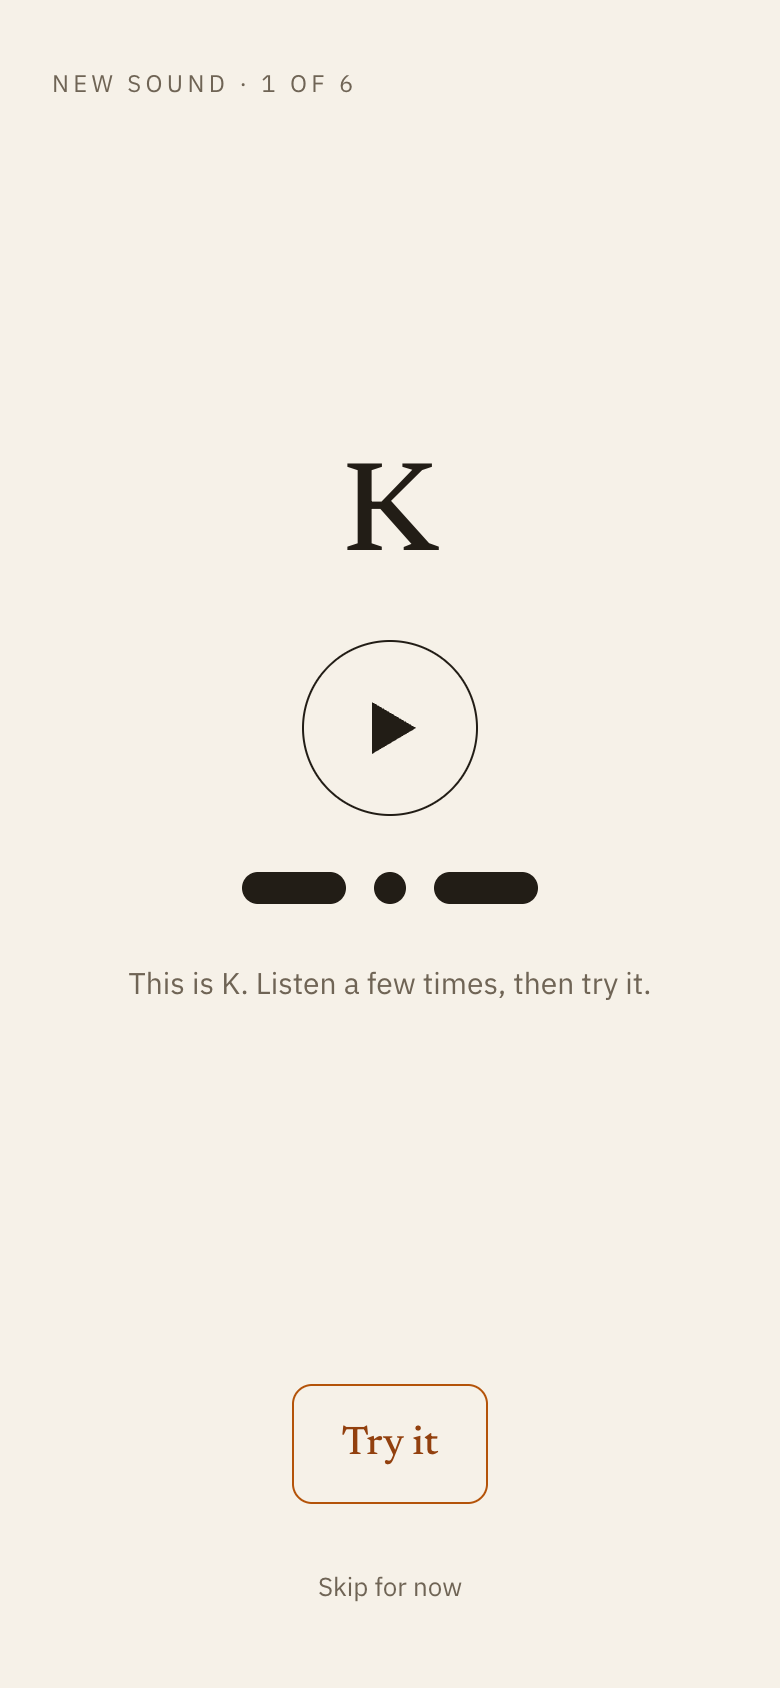
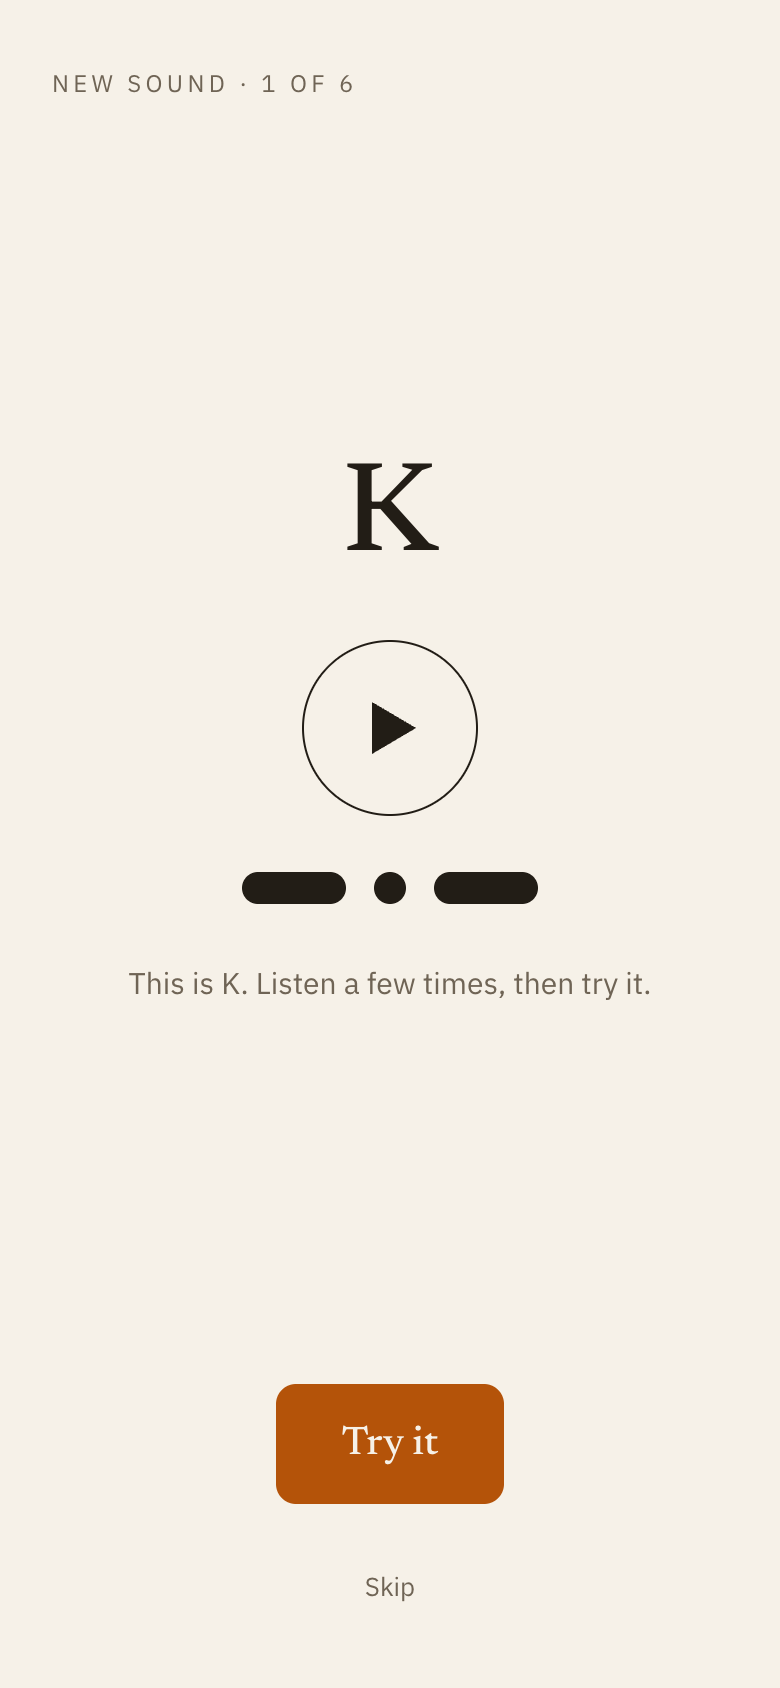
docs: Uebergabe auf den Stand der Marken-Runde, Screenshots, Lockup
Neu in der Uebergabe: Abschnitt 3b haelt die Rangfolge fest (1.1 fuehrt,
CI.md nachrangig) samt der drei Addenda und erklaert, warum das Logo
gerechnet und nicht gezeichnet ist. Abschnitt 5a bekommt den fehlenden
DNS-Eintrag fuer morse-lab.com als Tabelle -- die Domain liegt bei
Cloudflare, ist ans Projekt gebunden und wartet nur darauf.

Abschnitt 5d sammelt vier Stellen, an denen Umsetzung und 1.1
auseinandergehen und die *nicht* eigenmaechtig geaendert wurden: der
Strich ist 52 statt 48 px breit (1.1 §8 gegen die Mockup-Werte), der
Lernkarten-Buchstabe hat Gewicht 500 statt Light 300, drei Abstaende
liegen neben der Skala aus §6, und das Antwort-Gitter bleibt
sichtbar-deaktiviert statt versteckt. Drei davon wuerden Masse anfassen,
die Fable im Mockup selbst gesetzt hat -- deshalb gemeldet statt
geloest.

Dazu das primaere Lockup (public/logo-lockup.svg): Marke links,
Wortmarke rechts, Abstand ein Knopfdurchmesser, Newsreader Regular ohne
Sperrung und ohne Versalien. Die Breite ist an der gemessenen
Textbreite ausgerichtet (209,44 px bei 46 px), nicht geschaetzt.

Screenshots neu: Training, Lernkarte und -- neu -- Intro, alle bei
390 px. __pycache__ ist aus dem Repo raus und steht jetzt in
.gitignore.

Changed region(s): [[0.3385, 0.8009, 0.6462, 0.8934], [0.4, 0.9242, 0.5846, 0.955]]

diff --git a/HANDOVER.md b/HANDOVER.md
@@ -1,14 +1,16 @@
-# Übergabe — Stand nach dem Lernmodus
+# Übergabe — Stand nach der Marken-Runde: Morse Lab
 
 **Repository:** https://github.com/Erikemmer/projekt-morse
-**Stand:** `main` @ `2cd1c58`. Zwei Commits aus dieser Runde:
+**Stand:** `main` @ `915eb83`. Fünf Commits aus der Marken-Runde:
 
-1. `88100e8` — der Lernmodus als Engine (Karte, Echo-Check, eingeführte Zeichen)
-2. `2cd1c58` — derselbe auf dem Bildschirm, mit den drei Einstiegspunkten
+1. `e819703` — Guidelines 1.1 ins Repo, Rangfolge und die drei Addenda
+2. `05b5166` — Token-Migration auf 1.1 §13
+3. `958a427` — das neue Logo (der Morsetaster), Favicon und App-Icons
+4. `126b6f2` — Umbenennung auf **Morse Lab**
+5. `915eb83` — die Komponenten auf 1.1-Stand (Block B)
 
-Davor aus der Politur-Runde: `8183ff1` (Tagesstatistik, Sitzungszähler,
-Intro-Merker), `a101c6a` (Trainings-Screen auf das Mockup), `e790d15` (die
-Einführung), `0261303` (Übergabe).
+Davor: `88100e8`/`2cd1c58` (Lernmodus), `8183ff1`/`a101c6a`/`e790d15`
+(Politur und Einführung), `0261303`/`2c84cfa` (Übergaben).
 
 Die Streak-Runde ist weiterhin **nicht** gelaufen — sie wurde bewusst hinter
 den Lernmodus gestellt und bleibt der nächste Schritt (§8). Die Historie
@@ -16,8 +18,11 @@ bleibt linear.
 
 **Produktions-URL: https://projekt-morse.pages.dev** — live auf Cloudflare
 Pages, mit Git-Anbindung an dieses Repo. Jeder Push auf `main` baut und
-deployt von selbst; ein manueller Schritt ist nicht mehr nötig. Details und
-der Prüfbericht stehen in §5a.
+deployt von selbst.
+
+**`morse-lab.com` ist an das Projekt gebunden, aber noch nicht erreichbar** —
+es fehlt ein DNS-Eintrag, den ich nicht anlegen darf. Der genaue Eintrag steht
+in §5a; es ist ein Handgriff.
 
 **Datum:** 2026-09-01
 
@@ -32,10 +37,15 @@ behoben, die Begründungen stehen dort.
 Der Kern-Lernloop (hören → tippen → Feedback, adaptiv nach Schwäche) läuft, ist
 live und sieht jetzt aus wie das Mockup. Unverändert gilt: der Zeichensatz
 wächst von selbst (§3), die App ist eine offline nutzbare PWA ohne jeden
-Fremdabruf, `--muted` besteht AA auch für kleinen Text.
+Fremdabruf, `--gray` besteht AA auch für kleinen Text.
 
-**Neu aus dieser Runde: die App führt Zeichen jetzt ein, statt sie nur
-abzufragen.** Wer neu anfängt, riet bisher die ersten Runden — es gab keinen
+**Neu aus dieser Runde: das Projekt heißt Morse Lab und sieht danach aus.**
+Die Marken-Richtlinie 1.1 liegt im Repo und führt (§3b). Die Tokens tragen ihre
+Namen, das Logo ist der Morsetaster, und die Komponenten folgen den Regeln aus
+§7 und §4 — allen voran der harten: **Amber steht nie zweimal in einer View.**
+Ein Prüfskript belegt das über zwölf Ansichten.
+
+Aus der Runde davor: die App führt Zeichen ein, statt sie nur abzufragen. Wer neu anfängt, riet bisher die ersten Runden — es gab keinen
 Ort, an dem ein Zeichen als Klang vorgestellt wird. Den gibt es jetzt: eine
 Karte pro Zeichen (Buchstabe, Ton, danach das Muster), dahinter ein
 Echo-Check aus drei Abrufen nach den normalen Übungsregeln. Erreichbar an drei
@@ -75,10 +85,16 @@ Fables Urteil.
 | `src/ui/App.tsx` | Lernloop-Screen **im Mockup-Aufbau** | neu gestaltet |
 | `src/ui/Intro.tsx` | Die Einführung, zwei Bildschirme | unverändert |
 | `src/ui/Learn.tsx` | **Karte, Echo-Check, Wiederholen-Gitter** | neu |
-| `src/ui/Pattern.tsx` | **Muster als Form** — aus App.tsx herausgezogen | neu |
+| `src/ui/Pattern.tsx` | Muster als Form | unverändert |
+| `docs/brand/…1.1.html` | **Die Marken-Richtlinie — führend** | neu |
+| `docs/brand/logo.py` | **Baut die Marke aus den §3-Zahlen** | neu |
+| `docs/CI.md` | **Deutsche Kurzfassung, mit Rangfolge-Kopf** | neu |
+| `public/logo-key.svg`, `logo-lockup.svg` | **Marke und primäres Lockup** | neu |
+| `public/favicon.svg` | **Fallback-Marke** (Punkt + Pille, amber) | neu |
+| `public/icons/` | **Neu gezeichnet aus der Marke** | ersetzt |
 | `src/ui/today.ts` | **Kalendertag** für die Engine (die bleibt ohne Uhr) | neu |
 | `src/ui/progressStorage.ts` | localStorage rein/raus, **plus Sofort-Schreiber** | erweitert |
-| `src/styles.css` | Tokens und Grundriss, **Mockup-Maße** | neu gestaltet |
+| `src/styles.css` | **Tokens nach 1.1 §13**, Grundriss, Mockup-Maße | migriert |
 | `docs/screenshots/` | **Trainings-Screen bei 390 px** für den Design-Review | neu |
 | `src/fonts/` | **woff2 (latin) + SIL-OFL-Lizenzen** | neu |
 | `public/sw.js` | **Service Worker** (offline) | neu |
@@ -217,16 +233,61 @@ additiv, aber sein Default ist bewusst kein konstanter: fehlt das Feld,
 entscheidet die Vorgeschichte. Wer schon geübt hat (irgendein Versuch > 0), gilt
 als vollständig eingeführt; ein Stand ohne einen einzigen Versuch fängt vorn an.
 
+## 3b. Die Marke — was jetzt gilt und wer gewinnt
+
+**Rangfolge.** Führend ist
+[`docs/brand/Morse_Lab_Brand_Guidelines_1.1.html`](./docs/brand/Morse_Lab_Brand_Guidelines_1.1.html).
+[`docs/CI.md`](./docs/CI.md) ist die deutsche Kurzfassung und nachrangig; sie
+trägt einen Kopf, der die drei Stellen benennt, an denen sie überholt ist
+(Token-Namen, Bildmarke, Rampe). Beides steht auch in CLAUDE.md §2.9.
+
+**Drei Addenda von Fable gehen 1.1 vor** (Notion-Log #41):
+
+- **(a) Kein Live-Sync im Standard-Hörtraining.** Der „visuelle Zwilling" aus
+  1.1 §12 ist **nicht gebaut** und soll es hier auch nicht werden — er
+  widerspräche CLAUDE.md §2.2. Er kommt später als opt-in „Visual practice".
+  Damit bleibt die Barrierefreiheits-Zusage aus §12 vorerst offen; das ist eine
+  bewusste Schuld, keine vergessene.
+- **(b) `#92400e`** ist kein Token aus §13, sondern der interne
+  hover/active-Shade von Amber (`--amber-deep`), nie eine eigene Fläche.
+- **(c) Der Play-Kreis bleibt während der Wiedergabe bedienbar** — er hat gar
+  keinen `disabled`-Zustand mehr.
+
+**Das Logo ist gerechnet, nicht gezeichnet.**
+[`docs/brand/logo.py`](./docs/brand/logo.py) hält die Zahlen aus §3 als
+Konstanten und leitet den Rest ab; es druckt beim Lauf die Gegenproben mit
+(Knopf 20,695 über dem Lager, gedrehte Hebellänge exakt 92,000). Wer die Marke
+ändern will, ändert die Konstanten und lässt neu bauen — nicht umgekehrt.
+
+Das Favicon ist bewusst **nicht** der Taster, sondern die Fallback-Marke: unter
+24 px zerfällt er, und ein Favicon ist 16–32 px groß (§3).
+
+**Die eine Regel, die am leichtesten bricht:** Amber nie zweimal in einer View.
+Sie ist deshalb nicht nur beschrieben, sondern geprüft — siehe §4.
+
 ## 4. Was nachgewiesen ist (und wie)
 
 - **`npm test` → 101/101 grün** (74 vorher, 27 neu für den Lernmodus). Die ARRL-Referenz („PARIS bei 5 WpM = 12 s")
   prüft weiter gegen den Standard, nicht gegen die Implementierung. Die
   Wachstums-Tests kippen jede Bedingung einzeln; Zufall kommt überall als
   Parameter herein.
-- **`npm run build` → sauber.** Bundle **169,97 kB roh / 54,42 kB gzip**
-  (vorher 161,86 / 52,63), CSS **7,35 kB / 2,09 kB** (vorher 6,88 / 2,01).
-  Der Lernmodus kostet also +8,1 kB roh und +1,8 kB gzip. Dazu unverändert
-  einmalig 129 kB woff2 und 14 kB Icons. **Keine neue Abhängigkeit.**
+- **`npm run build` → sauber.** Bundle **170,10 kB roh / 54,47 kB gzip**
+  (vor der Marken-Runde 169,97 / 54,43), CSS **8,16 kB / 2,25 kB** (vorher
+  7,35 / 2,09). Die ganze Marken-Runde kostet also +0,13 kB JS und +0,81 kB
+  CSS. Dazu unverändert einmalig 129 kB woff2 und die neu gezeichneten Icons.
+  **Keine neue Abhängigkeit.**
+- **Amber nie zweimal in einer View (1.1 §4) — 12 von 12 Ansichten.** Geprüft
+  wird am *gerenderten* Ergebnis, nicht am Stylesheet: das Skript geht jedes
+  sichtbare Element durch und zählt Fläche, Rahmen und Text in `--amber` oder
+  `--amber-deep`, verschachtelte Treffer zusammengefasst. Abgedeckt sind beide
+  Intro-Schritte, die Lernkarte mit laufendem und mit beendetem Ton, der
+  Echo-Check in drei Phasen, das Training in vier Phasen und die
+  Wiederholen-Auswahl. Der Lauf hat dabei zwei echte Doppelbelegungen gefunden,
+  bevor sie gefixt waren.
+- **Der Play-Kreis füllt sich und bleibt bedienbar** — im Browser nachgemessen:
+  vor dem Ton transparent mit ink-Rand, während des Tons `rgb(180, 83, 9)` in
+  Fläche und Rand mit paper-Dreieck, danach zurück; Übergang 0,15 s;
+  `disabled` durchgehend `false`.
 - **Wachstum im Browser durchgespielt:** Stand präpariert, dem genau eine
   richtige Antwort fehlt → Ankündigung erscheint („The set grows: P joins from
   the next round."), Gitter wächst auf 7, `activeCharacters` enthält P,
@@ -303,7 +364,7 @@ bevorzugte Weg hat also geklappt; Direct Upload war nicht nötig.
 
 **Auf Produktion geprüft** (Playwright gegen die echte URL, Chrome):
 
-- **Seite rendert** — `h1` „Projekt Morse", Antwort-Gitter mit 6 Tasten.
+- **Seite rendert** — `h1` „Morse Lab", Antwort-Gitter mit 6 Tasten.
 - **Schriften lokal** — kein einziger Fremd-Origin-Request auf der ganzen
   Seite. Genutzt und geladen werden Newsreader (h1) und IBM Plex Sans 400
   (Fließtext), beide von `projekt-morse.pages.dev`. Die Schnitte 500/600
@@ -333,6 +394,35 @@ aus dem neuen Cache. Damit ist der Pfad nicht mehr nur lokal, sondern auf der
 echten Auslieferung belegt. Die Vorbedingung dafür bleibt sichtbar in den
 Headern: Cloudflare liefert `sw.js` und das HTML mit
 `cache-control: public, max-age=0, must-revalidate`.
+
+### Custom Domain `morse-lab.com` — ein Handgriff fehlt
+
+Die Domain ist **an das Pages-Projekt gebunden** (`status: pending`,
+HTTP-Validierung) und liegt bei Cloudflare mit Cloudflare-Nameservern
+(`dion` / `paige`), Zone `2bef7122ee328f9197516d727b9929a2`, aktiv. Also kein
+fremdes DNS — die Auskunft aus der Aufgabenstellung trifft hier nicht zu.
+
+Trotzdem ist sie **noch nicht erreichbar**: die Zone hat keinen einzigen
+DNS-Eintrag, und die vorhandene wrangler-Anmeldung darf keinen anlegen — ihre
+Scopes enthalten `zone:read`, aber kein `dns_records:write`. Anlegen muss ihn
+also jemand mit DNS-Rechten:
+
+| Feld | Wert |
+|---|---|
+| Typ | `CNAME` |
+| Name | `morse-lab.com` (Apex, im Dashboard `@`) |
+| Ziel | `projekt-morse.pages.dev` |
+| Proxy | **an** (orange Wolke) — für Pages-Domains nötig |
+| TTL | Auto |
+
+Cloudflare flacht den Apex-CNAME selbst ab; ein A-Record ist nicht nötig.
+Sobald der Eintrag steht, validiert Pages von selbst und stellt das Zertifikat
+aus (wenige Minuten). `projekt-morse.pages.dev` bleibt daneben bestehen.
+
+Wer `www` auch will, legt denselben CNAME für `www` an — das war nicht
+gefordert und ist deshalb nicht passiert.
+
+### Cache-Wechsel
 
 **Beim Lernmodus-Deploy wiederholt** (Routine): `projekt-morse-112cb6b729ee` →
 `projekt-morse-cd711867d85c`, wieder genau ein Cache am Ende, der alte
@@ -395,6 +485,35 @@ sichtbare Zeile zurück.
    die Regel aus CLAUDE.md 6 ist also gewahrt — die Hausregel ist es strenger
    gelesen nicht mehr.
 
+## 5d. Wo Umsetzung und 1.1 auseinandergehen — vier Punkte für Fable
+
+Gefunden beim Umsetzen, **nicht** eigenmächtig geändert: alle vier liegen außerhalb
+der zehn Aufgabenpunkte, und drei davon würden Maße anfassen, die Fable im
+Mockup selbst gesetzt hat.
+
+1. **Der Strich ist 52 px breit, 1.1 §8 sagt 48.** Die Richtlinie definiert den
+   Strich als `3 u × 1 u` bei `u` = Punktdurchmesser; bei `u = 16` sind das
+   48 × 16. Implementiert sind 52 × 16 — so stand es in den verbindlichen
+   Mockup-Werten der Politur-Runde. Eine Zeile CSS, aber es ändert das
+   Erscheinungsbild jedes Musters.
+2. **Der Lernkarten-Buchstabe hat Gewicht 500, 1.1 §5 sagt Light 300.** Größe
+   (64 px) und Familie stimmen. 300 wäre deutlich zarter.
+3. **Die Abstände liegen teilweise neben der Skala aus 1.1 §6**
+   (4/8/12/16/24/32/48/64): der Screen hat 26 px seitliches Padding, 36 px
+   zwischen den Blöcken, 28 px unten, und die Tasten sind 60 px hoch. Auch das
+   sind Mockup-Werte. Die Token-Skala selbst ist inzwischen sauber (8/16/24).
+4. **Das Antwort-Gitter bleibt sichtbar-deaktiviert, während der Ton läuft** —
+   1.1 §7 sagt „no disabled-gray ghost rows — hide what can't be used". Auf der
+   Lernkarte habe ich das umgesetzt („Try it" erscheint erst nach dem Ton); beim
+   Antwort-Gitter wäre es ein Eingriff in den Kernloop: das Gitter ist der
+   Kontext der Frage, nicht eine abgeblendete Werkzeugleiste. Bewusst gelassen.
+
+Dazu eine Beobachtung ohne Handlungsbedarf: der Trainings-Screen hat in Ruhe
+**gar kein** Amber mehr — Fortschritt ist ink, die Punkte sind ink, der
+Play-Kreis wird erst beim Klingen amber. Das ist die Folge von „Amber ist
+rationiert" und liest sich sehr ruhig; falls dort dauerhaft ein Akzent stehen
+soll, ist das eine Design-Entscheidung, keine Korrektur.
+
 ## 5. Entscheidungen: gefallen und offen
 
 **Gefallen und umgesetzt:** Zeichen-für-Zeichen, retrieval-only, EN-first,
@@ -454,16 +573,20 @@ npm run preview    # dist ausliefern -- hier laesst sich die PWA testen
 
 ## 8. Nächster Schritt
 
-1. **Review durch Fable** — gegen
-   [`docs/screenshots/training-390.png`](./docs/screenshots/training-390.png)
-   und [`learn-card-390.png`](./docs/screenshots/learn-card-390.png), dazu die
-   Abweichungen in §5b und die zwei Fragen in §5c.
-2. **Streak mit Freeze-Gnade** — die Runde steht noch aus. Gebaut wird er als
+1. **`morse-lab.com` erreichbar machen** — der DNS-Eintrag aus §5a. Danach ist
+   die Marken-Runde wirklich fertig.
+2. **Review durch Fable** — gegen die drei Screenshots in
+   [`docs/screenshots/`](./docs/screenshots/) (Training, Lernkarte, Intro),
+   dazu §5b, §5c und die vier Punkte in §5d.
+3. **Streak mit Freeze-Gnade** — die Runde steht noch aus. Gebaut wird er als
    reine Engine-Logik (`src/engine/`), Persistenz additiv. Der Tages-Eimer aus
    dieser Runde ist bewusst *keine* Historie: er hält nur den laufenden Tag.
    Wer eine Reihe über Tage braucht, legt sie daneben — und sollte dabei
    entscheiden, ob der Eimer darin aufgeht.
-3. **Menschliche Prüfungen:** Hörtest, Screenreader, PWA-Installation auf dem
-   Telefon. Alles unverändert offen und weiterhin die wichtigsten Prüfungen.
-4. Danach die offenen Produktfragen aus §5 — Reihenfolge ist eine
+4. **Menschliche Prüfungen:** Hörtest, Screenreader, PWA-Installation auf dem
+   Telefon — jetzt auch: sieht das neue Icon auf einem echten Homescreen gut
+   aus? Alles unverändert offen.
+5. **„Visual practice"** als opt-in-Modus — die offene Zusage aus 1.1 §12,
+   siehe Addendum (a) in §3b.
+6. Danach die offenen Produktfragen aus §5 — Reihenfolge ist eine
    Notion-Entscheidung, nicht eine des Codes.
